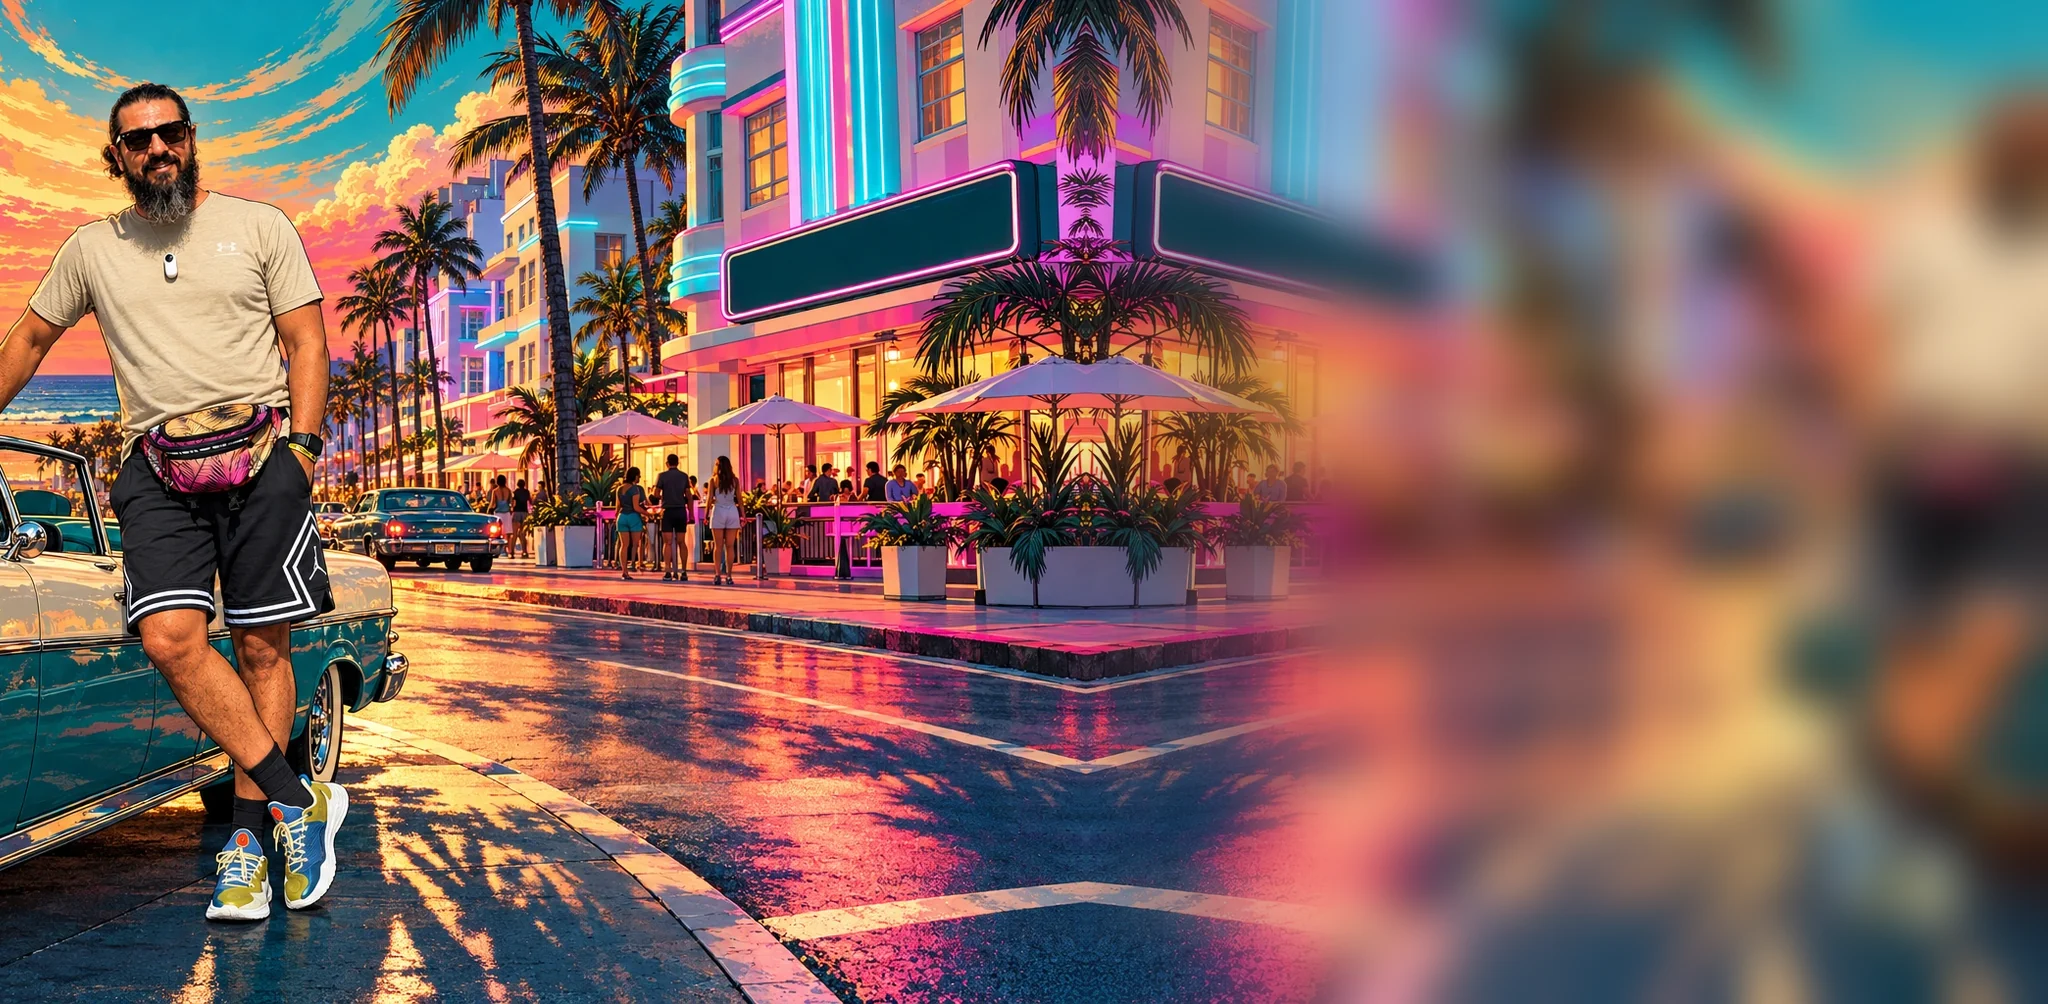
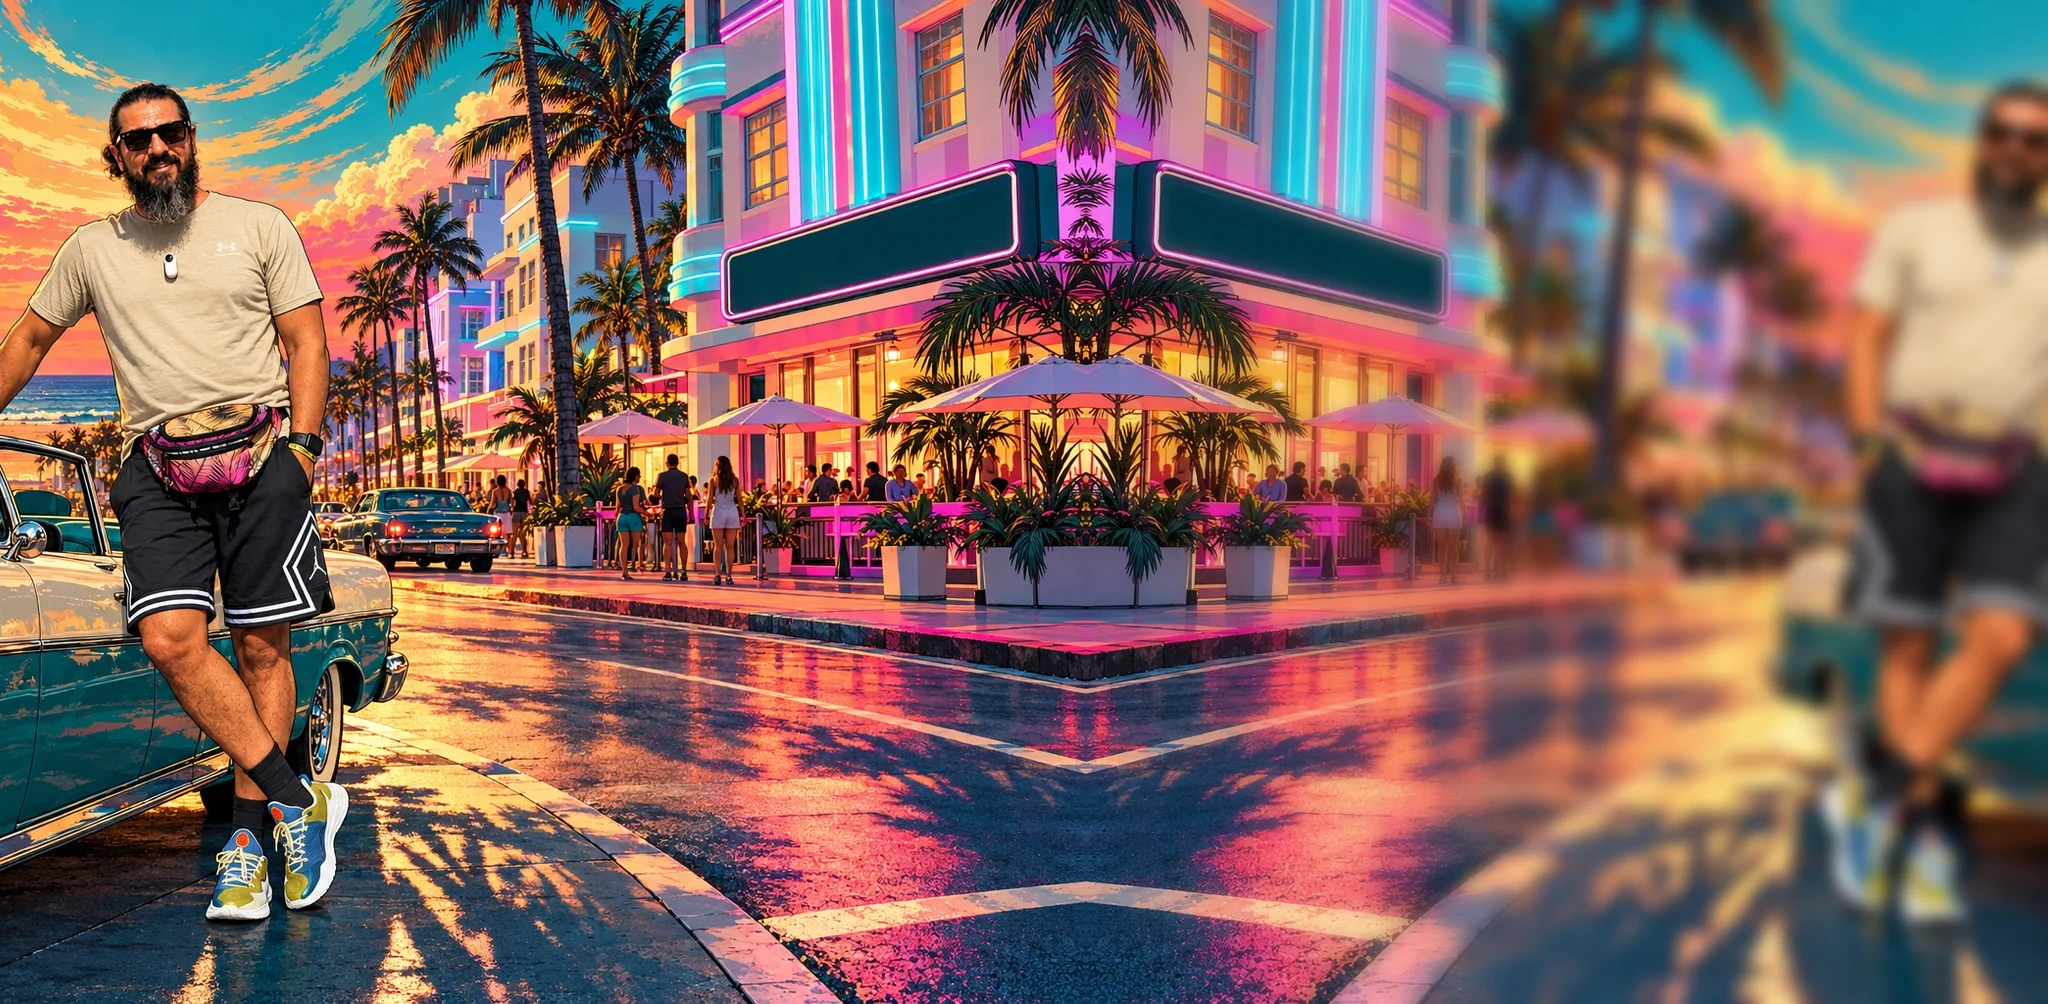
wow book: Giggiooo panel behind burger, 3D Frames hero orientation + bigger block, lighter Type Lens blur
Claude-Session: https://claude.ai/code/session_01BK5deQQsLrtgaPUMqE32ib

Changed region(s): [[0.5312, 0.0, 1.0, 1.0], [0.5312, 0.741, 0.5625, 0.7719]]

diff --git a/projects-book/wow/index.html b/projects-book/wow/index.html
@@ -379,6 +379,18 @@ const ART={
 "fgx": -60,
 "objs": [
 {
+"src": "assets/giggi-panel.webp",
+"sx": 22,
+"sy": 290,
+"sh": 490,
+"d": 0.25,
+"fly": 1,
+"fl": 1,
+"rot": -3,
+"glow": "rgba(231,178,90,.35)",
+"glowB": 40
+},
+{
 "src": "assets/giggi-liner.webp",
 "sx": 270,
 "sy": 664,
@@ -481,18 +493,6 @@ const ART={
 "fl": 1,
 "shb": 22,
 "sho": 14
-},
-{
-"src": "assets/giggi-panel.webp",
-"sx": 22,
-"sy": 290,
-"sh": 490,
-"d": 0.25,
-"fly": 1,
-"fl": 1,
-"rot": -3,
-"glow": "rgba(231,178,90,.35)",
-"glowB": 40
 }
 ],
 "notes": [
@@ -574,20 +574,30 @@ const ART={
 "live": [
 {
 "kind": "fstack",
-"x": 318,
-"y": 150,
-"w": 700,
-"h": 720,
-"d": 0.6
+"x": 250,
+"y": 90,
+"w": 840,
+"h": 860,
+"d": 0.6,
+"cam": {
+"F": 1180,
+"cx": 0.436,
+"cy": 0.588
+}
 },
 {
 "kind": "fhero",
-"x": 318,
-"y": 150,
-"w": 700,
-"h": 720,
+"x": 250,
+"y": 90,
+"w": 840,
+"h": 860,
 "d": 1.15,
-"fl": 1
+"fl": 1,
+"cam": {
+"F": 1180,
+"cx": 0.436,
+"cy": 0.588
+}
 },
 {
 "kind": "fbar",
@@ -1144,7 +1154,7 @@ function frClock(t){
 const tc=n=>{const s=(n+.5)/FR.N*FR.DUR,m=Math.floor(s/60);return String(m).padStart(2,'0')+':'+(s%60).toFixed(3).padStart(6,'0')};
 function frCam(o){
   if(o._cam)return o._cam;
-  const C=o.cam||{x:-3.1,y:2.45,z:3.2,tx:.9,ty:.55,tz:-3.2,F:900,cx:.34,cy:.62};
+  const C=Object.assign({x:-3.1,y:2.45,z:3.2,tx:.9,ty:.55,tz:-3.2,F:900,cx:.34,cy:.62},o.cam||{});
   const f=[C.tx-C.x,C.ty-C.y,C.tz-C.z],fl=Math.hypot(...f);f.forEach((_,i)=>f[i]/=fl);
   let r=[-f[2],0,f[0]];const rl=Math.hypot(...r);r=r.map(v=>v/rl);
   const u=[r[1]*f[2]-r[2]*f[1],r[2]*f[0]-r[0]*f[2],r[0]*f[1]-r[1]*f[0]];
@@ -1184,9 +1194,9 @@ const fstack={init(L,A,o){},
 const fhero={init(L,A,o){},
   draw(ctx,t,L){const o=L.o,P=frCam(o),ck=frClock(L.still?0:t),bg=L.A.im.big;if(!bg)return;
     const pop=ck.pop,rise=.2+.8*pop,sc=1+.34*pop,dy=.12+.62*rise*1.0,dz=.55*pop;
-    const z=-FR.JS*DZ,q=frQuad(P,z,dy,sc,dz),[sx,sy,sw,sh]=cell(bg,ck.n,8,448,252);
+    const z=-FR.JS*DZ,X0=P(0,0,z)[0],q=mir(frQuad(P,z,dy,sc,dz),X0),[sx,sy,sw,sh]=cell(bg,ck.n,8,448,252);
     // soft ground shadow where the frame left the stack
-    {const g=frQuad(P,z,0,1,0),cx=(g[2][0]+g[3][0])/2,cy=(g[2][1]+g[3][1])/2,rr=Math.max(4,Math.abs(g[3][0]-g[2][0])*.55);
+    {const g=mir(frQuad(P,z,0,1,0),X0),cx=(g[2][0]+g[3][0])/2,cy=(g[2][1]+g[3][1])/2,rr=Math.max(4,Math.abs(g[3][0]-g[2][0])*.55);
       ctx.save();ctx.translate(cx,cy);ctx.scale(1,.3);const rg=ctx.createRadialGradient(0,0,2,0,0,rr);rg.addColorStop(0,'rgba(0,10,12,'+(.45*rise)+')');rg.addColorStop(1,'rgba(0,10,12,0)');ctx.fillStyle=rg;ctx.beginPath();ctx.arc(0,0,rr,0,7);ctx.fill();ctx.restore()}
     ctx.save();ctx.shadowColor='rgba(255,70,160,'+(.35+.5*pop)+')';ctx.shadowBlur=28+30*pop;quadPath(ctx,q);ctx.fillStyle='#0c2224';ctx.fill();ctx.restore();
     fit(ctx,bg,sx,sy,sw,sh,q);

diff --git a/projects-book/tools/wow_live.js b/projects-book/tools/wow_live.js
@@ -21,7 +21,7 @@ function frClock(t){
 const tc=n=>{const s=(n+.5)/FR.N*FR.DUR,m=Math.floor(s/60);return String(m).padStart(2,'0')+':'+(s%60).toFixed(3).padStart(6,'0')};
 function frCam(o){
   if(o._cam)return o._cam;
-  const C=o.cam||{x:-3.1,y:2.45,z:3.2,tx:.9,ty:.55,tz:-3.2,F:900,cx:.34,cy:.62};
+  const C=Object.assign({x:-3.1,y:2.45,z:3.2,tx:.9,ty:.55,tz:-3.2,F:900,cx:.34,cy:.62},o.cam||{});
   const f=[C.tx-C.x,C.ty-C.y,C.tz-C.z],fl=Math.hypot(...f);f.forEach((_,i)=>f[i]/=fl);
   let r=[-f[2],0,f[0]];const rl=Math.hypot(...r);r=r.map(v=>v/rl);
   const u=[r[1]*f[2]-r[2]*f[1],r[2]*f[0]-r[0]*f[2],r[0]*f[1]-r[1]*f[0]];
@@ -61,9 +61,9 @@ const fstack={init(L,A,o){},
 const fhero={init(L,A,o){},
   draw(ctx,t,L){const o=L.o,P=frCam(o),ck=frClock(L.still?0:t),bg=L.A.im.big;if(!bg)return;
     const pop=ck.pop,rise=.2+.8*pop,sc=1+.34*pop,dy=.12+.62*rise*1.0,dz=.55*pop;
-    const z=-FR.JS*DZ,q=frQuad(P,z,dy,sc,dz),[sx,sy,sw,sh]=cell(bg,ck.n,8,448,252);
+    const z=-FR.JS*DZ,X0=P(0,0,z)[0],q=mir(frQuad(P,z,dy,sc,dz),X0),[sx,sy,sw,sh]=cell(bg,ck.n,8,448,252);
     // soft ground shadow where the frame left the stack
-    {const g=frQuad(P,z,0,1,0),cx=(g[2][0]+g[3][0])/2,cy=(g[2][1]+g[3][1])/2,rr=Math.max(4,Math.abs(g[3][0]-g[2][0])*.55);
+    {const g=mir(frQuad(P,z,0,1,0),X0),cx=(g[2][0]+g[3][0])/2,cy=(g[2][1]+g[3][1])/2,rr=Math.max(4,Math.abs(g[3][0]-g[2][0])*.55);
       ctx.save();ctx.translate(cx,cy);ctx.scale(1,.3);const rg=ctx.createRadialGradient(0,0,2,0,0,rr);rg.addColorStop(0,'rgba(0,10,12,'+(.45*rise)+')');rg.addColorStop(1,'rgba(0,10,12,0)');ctx.fillStyle=rg;ctx.beginPath();ctx.arc(0,0,rr,0,7);ctx.fill();ctx.restore()}
     ctx.save();ctx.shadowColor='rgba(255,70,160,'+(.35+.5*pop)+')';ctx.shadowBlur=28+30*pop;quadPath(ctx,q);ctx.fillStyle='#0c2224';ctx.fill();ctx.restore();
     fit(ctx,bg,sx,sy,sw,sh,q);

diff --git a/projects-book/tools/book_data_wow.py b/projects-book/tools/book_data_wow.py
@@ -40,6 +40,7 @@ GOLD = '#f2c46a'
 CY, YL = '#59eef1', '#ffc83a'
 AMBER, EMBER = '#ffb25b', '#ff6a48'
 STAGE, IRON, GRID = '#ff6a58', '#efe6d0', '#4cecef'
+CAM = dict(F=1180, cx=.436, cy=.588)           # 3D Frames block: bigger, a little to the right
 T2 = dict(ta='left', th=400, tcy=292)          # two-line poster title, left edge on the text column
 # giggiooo: ingredient sprites (logical height from the configurator), stacked as an exploded burger
 GX = [('top-brioche', 148.8), ('signature-a', 77.7), ('lattuga-a', 88.7), ('pomodoro-a', 58.4), ('bacon-a', 76.6), ('cheddar-a', 84.9), ('manzo-a', 67.3), ('bun-brioche', 105.8)]
@@ -71,10 +72,10 @@ ART_DATA = {
   'giggi': dict(
     bg='assets/giggi-bg.webp', fg='assets/giggi-fgn.webp', tcx=1500, tw=900, th=360, tcy=270, ta='left', dF=1.5, fgx=-60,
     objs=[
+      dict(src='assets/giggi-panel.webp', sx=22, sy=290, sh=490, d=.25, fly=1, fl=1, rot=-3, glow='rgba(231,178,90,.35)', glowB=40),
       dict(src='assets/giggi-liner.webp', sx=270, sy=664, sh=250, d=.3, flat=1, pop=0),
       dict(src='assets/giggi-fries.webp', sx=700, sy=476, sh=360, d=1.15),
       *centred(exploded(545, 852), 545, GW),
-      dict(src='assets/giggi-panel.webp', sx=22, sy=290, sh=490, d=.25, fly=1, fl=1, rot=-3, glow='rgba(231,178,90,.35)', glowB=40),
     ],
     notes=[
       dict(t='scroll to take it apart', x=640, y=190, size=54, rot=3, col=GOLD, ul=1, ar=[690, 246, 660, 262, 640, 290]),
@@ -88,8 +89,8 @@ ART_DATA = {
       dict(src='assets/frames-deck.webp', sx=8, sy=70, sh=910, d=.35, fly=1, glow='rgba(89,238,241,.55)', glowB=44),
     ],
     live=[
-      dict(kind='fstack', x=318, y=150, w=700, h=720, d=.6),
-      dict(kind='fhero',  x=318, y=150, w=700, h=720, d=1.15, fl=1),
+      dict(kind='fstack', x=250, y=90, w=840, h=860, d=.6, cam=CAM),
+      dict(kind='fhero',  x=250, y=90, w=840, h=860, d=1.15, fl=1, cam=CAM),
       dict(kind='fbar',   x=330, y=868, w=680, h=80, d=.95, fl=1),
     ],
     notes=[

diff --git a/projects-book/tools/wow_assets.py b/projects-book/tools/wow_assets.py
@@ -15,9 +15,9 @@ bg.paste(sc, (x0, 0))
 right = x0 + sw
 ext = sc.crop((sw - (W - right), 0, sw, H)).transpose(Image.FLIP_LEFT_RIGHT)
 bg.paste(ext, (right, 0))
-soft = bg.filter(ImageFilter.GaussianBlur(24))
+soft = bg.filter(ImageFilter.GaussianBlur(8))
 m = Image.new('L', (W, H), 0); d = ImageDraw.Draw(m)
-for x in range(W): d.line([(x, 0), (x, H)], fill=max(0, min(255, int((x - 1040) / 300 * 255))))
+for x in range(W): d.line([(x, 0), (x, H)], fill=max(0, min(255, int((x - 1060) / 260 * 140))))
 bg = Image.composite(soft, bg, m)
 save(bg, O + 'creative-bg.webp', 86)
 print('sign at', x0 + round(.855 * sw), round(.245 * H), 'right edge', right)
